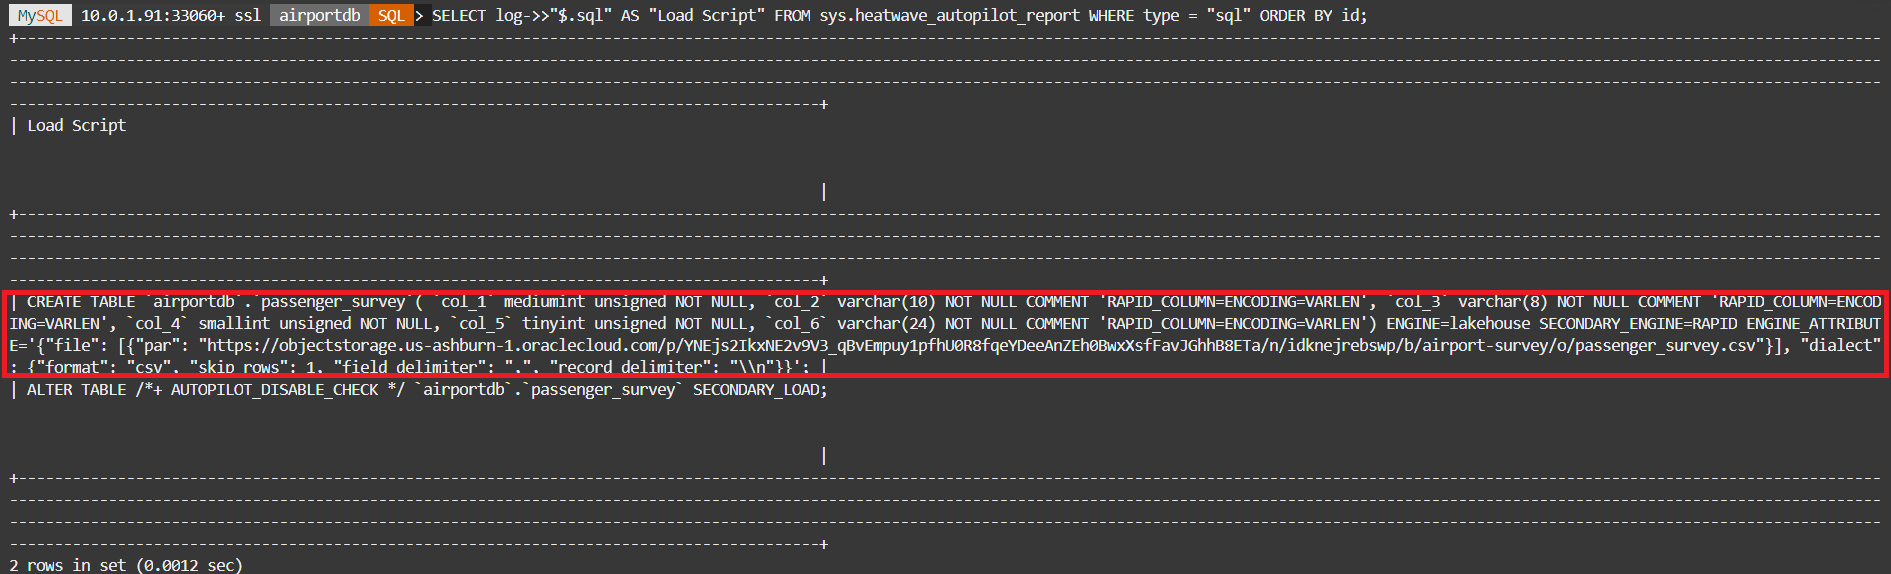
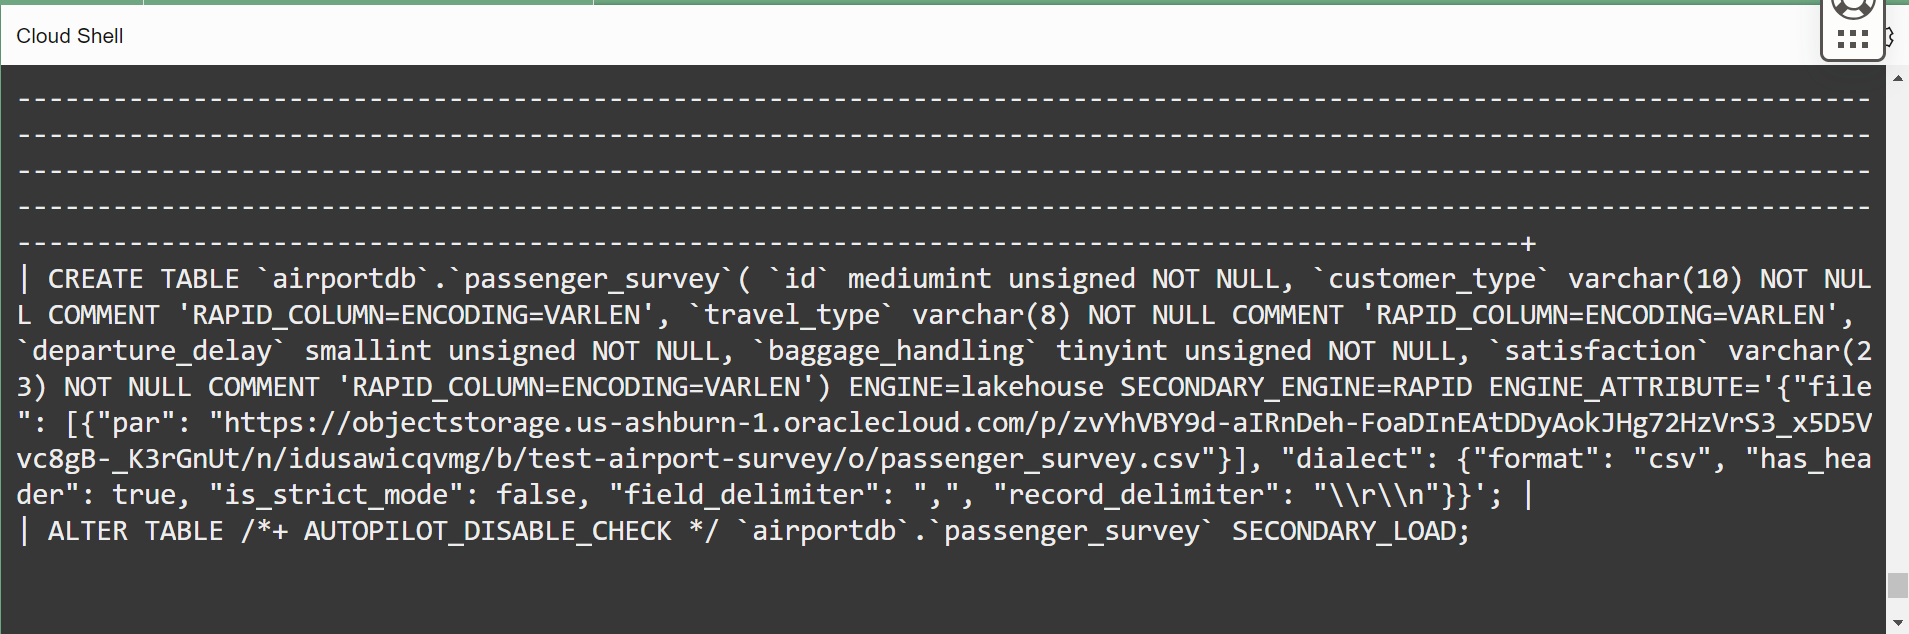
updated

Changed region(s): [[0.0, 0.0, 1.0, 1.0], [0.0, 0.9774, 0.1248, 1.0]]

diff --git a/do-lakehouse/do-lakehouse.md b/do-lakehouse/do-lakehouse.md
@@ -152,15 +152,14 @@ In this lab, you will be guided through the following tasks:
     <copy>SET @dl_tables = '[{
     "db_name": "airportdb",
     "tables": [{
-        "table_name": "passenger_survey",
-        "dialect": 
-    {
-    "skip_rows": 1,
-    "format": "csv",
-    "field_delimiter": ",",
-    "record_delimiter": "\\n"
-    },
-    "file": [{"par": "(PAR URL)"}]}]  }]';</copy>
+    "table_name": "passenger_survey",
+    "dialect": {
+        "format": "csv",
+        "field_delimiter": ",",
+        "record_delimiter": "\\r\\n",
+        "has_header": true,
+        "is_strict_mode": false},
+        "file": [{"par": "(PAR URL)"}]}]  }]';</copy>
     ```
 
     - It should look like the following example (Be sure to include the PAR Link inside at of quotes("")):
@@ -203,24 +202,9 @@ In this lab, you will be guided through the following tasks:
 
     ![create passenger survey script copy](./images/create-passenger-survey-script-copy.png "create passenger survey script copy")  
 
-10. Modify the **CREATE TABLE** command to replace the generic column names, such as **col\_1**, with descriptive column names. Use the following values:
+10. Execute the modified **CREATE TABLE** command to create the passenger_survey table.
 
-    - `col_1 : id`
-    - `col_2 : customer_type`
-    - `col_3 : travel_type`
-    - `col_4 : departure_delay`
-    - `col_5 : baggage_handling`
-    - `col_6 : satisfaction`
-
-    **Important** Substitute the **(PAR URL)** value with the one you generated in the previous task
-
-11. Your modified **CREATE TABLE** command  should look similar to  the following example PAR value is not your valid PAR:
-
-    ![create passenger survey script update](./images/create-passenger-survey-script-update.png "create passenger survey script update")  
-
-12. Execute the modified **CREATE TABLE** command to create the passenger_survey table.
-
-13. The create command and result should look lie this
+11. The create command and result should look lie this
 
     ![Delivery Table create](./images/create-survey-table.png "create delivery table")
 
